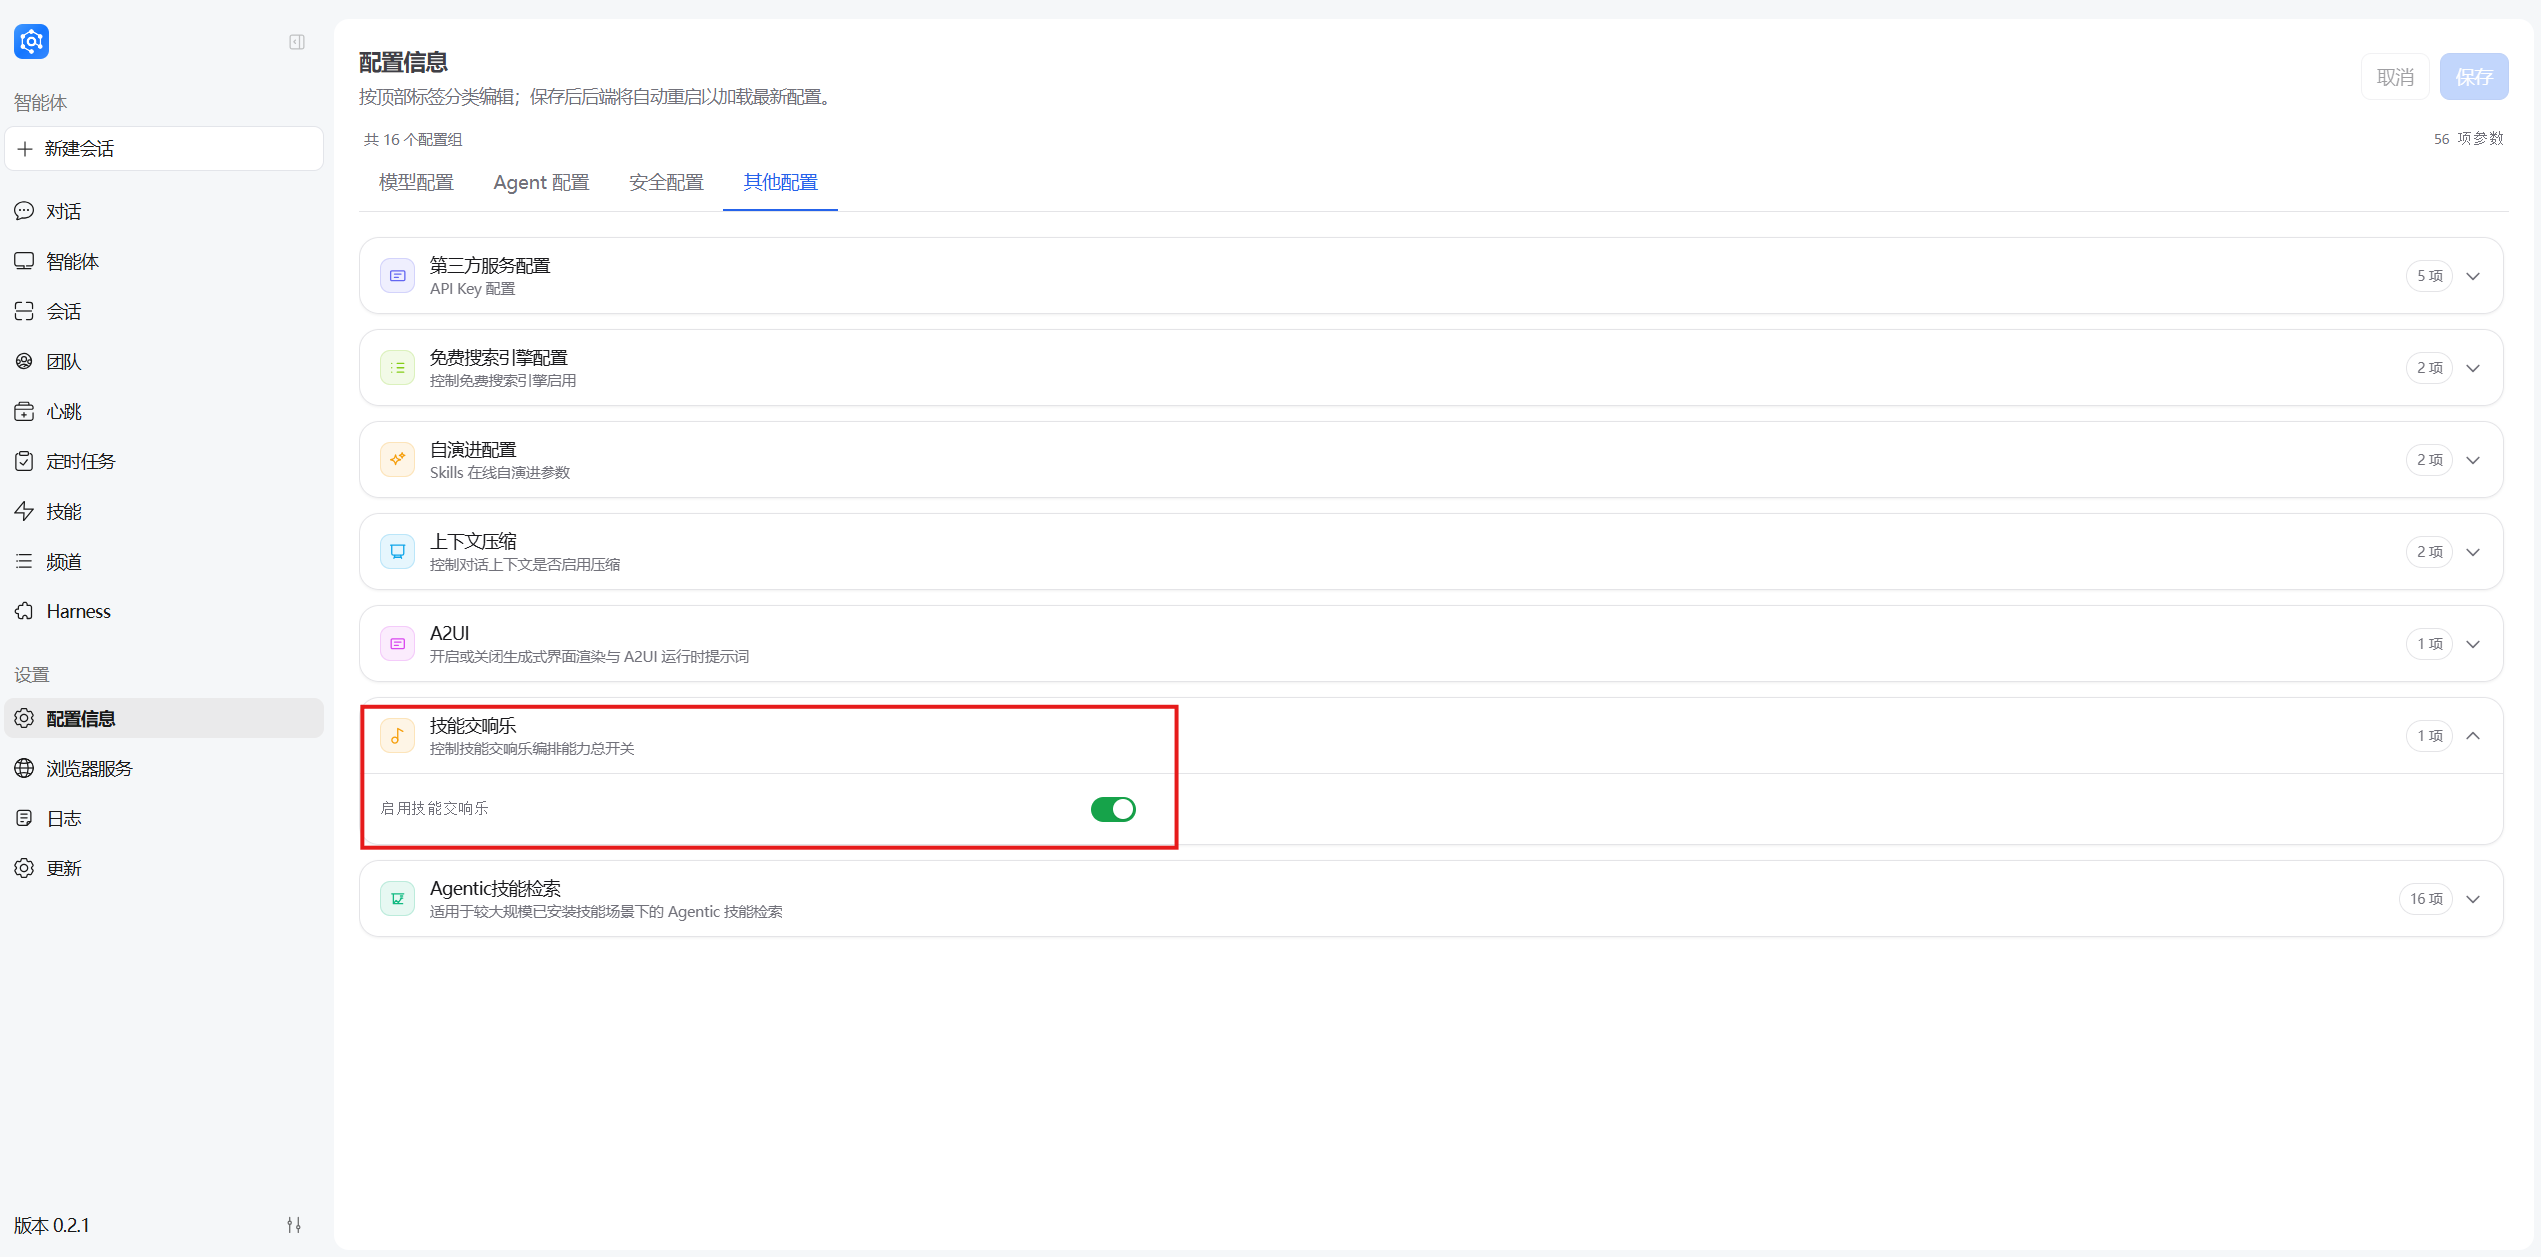
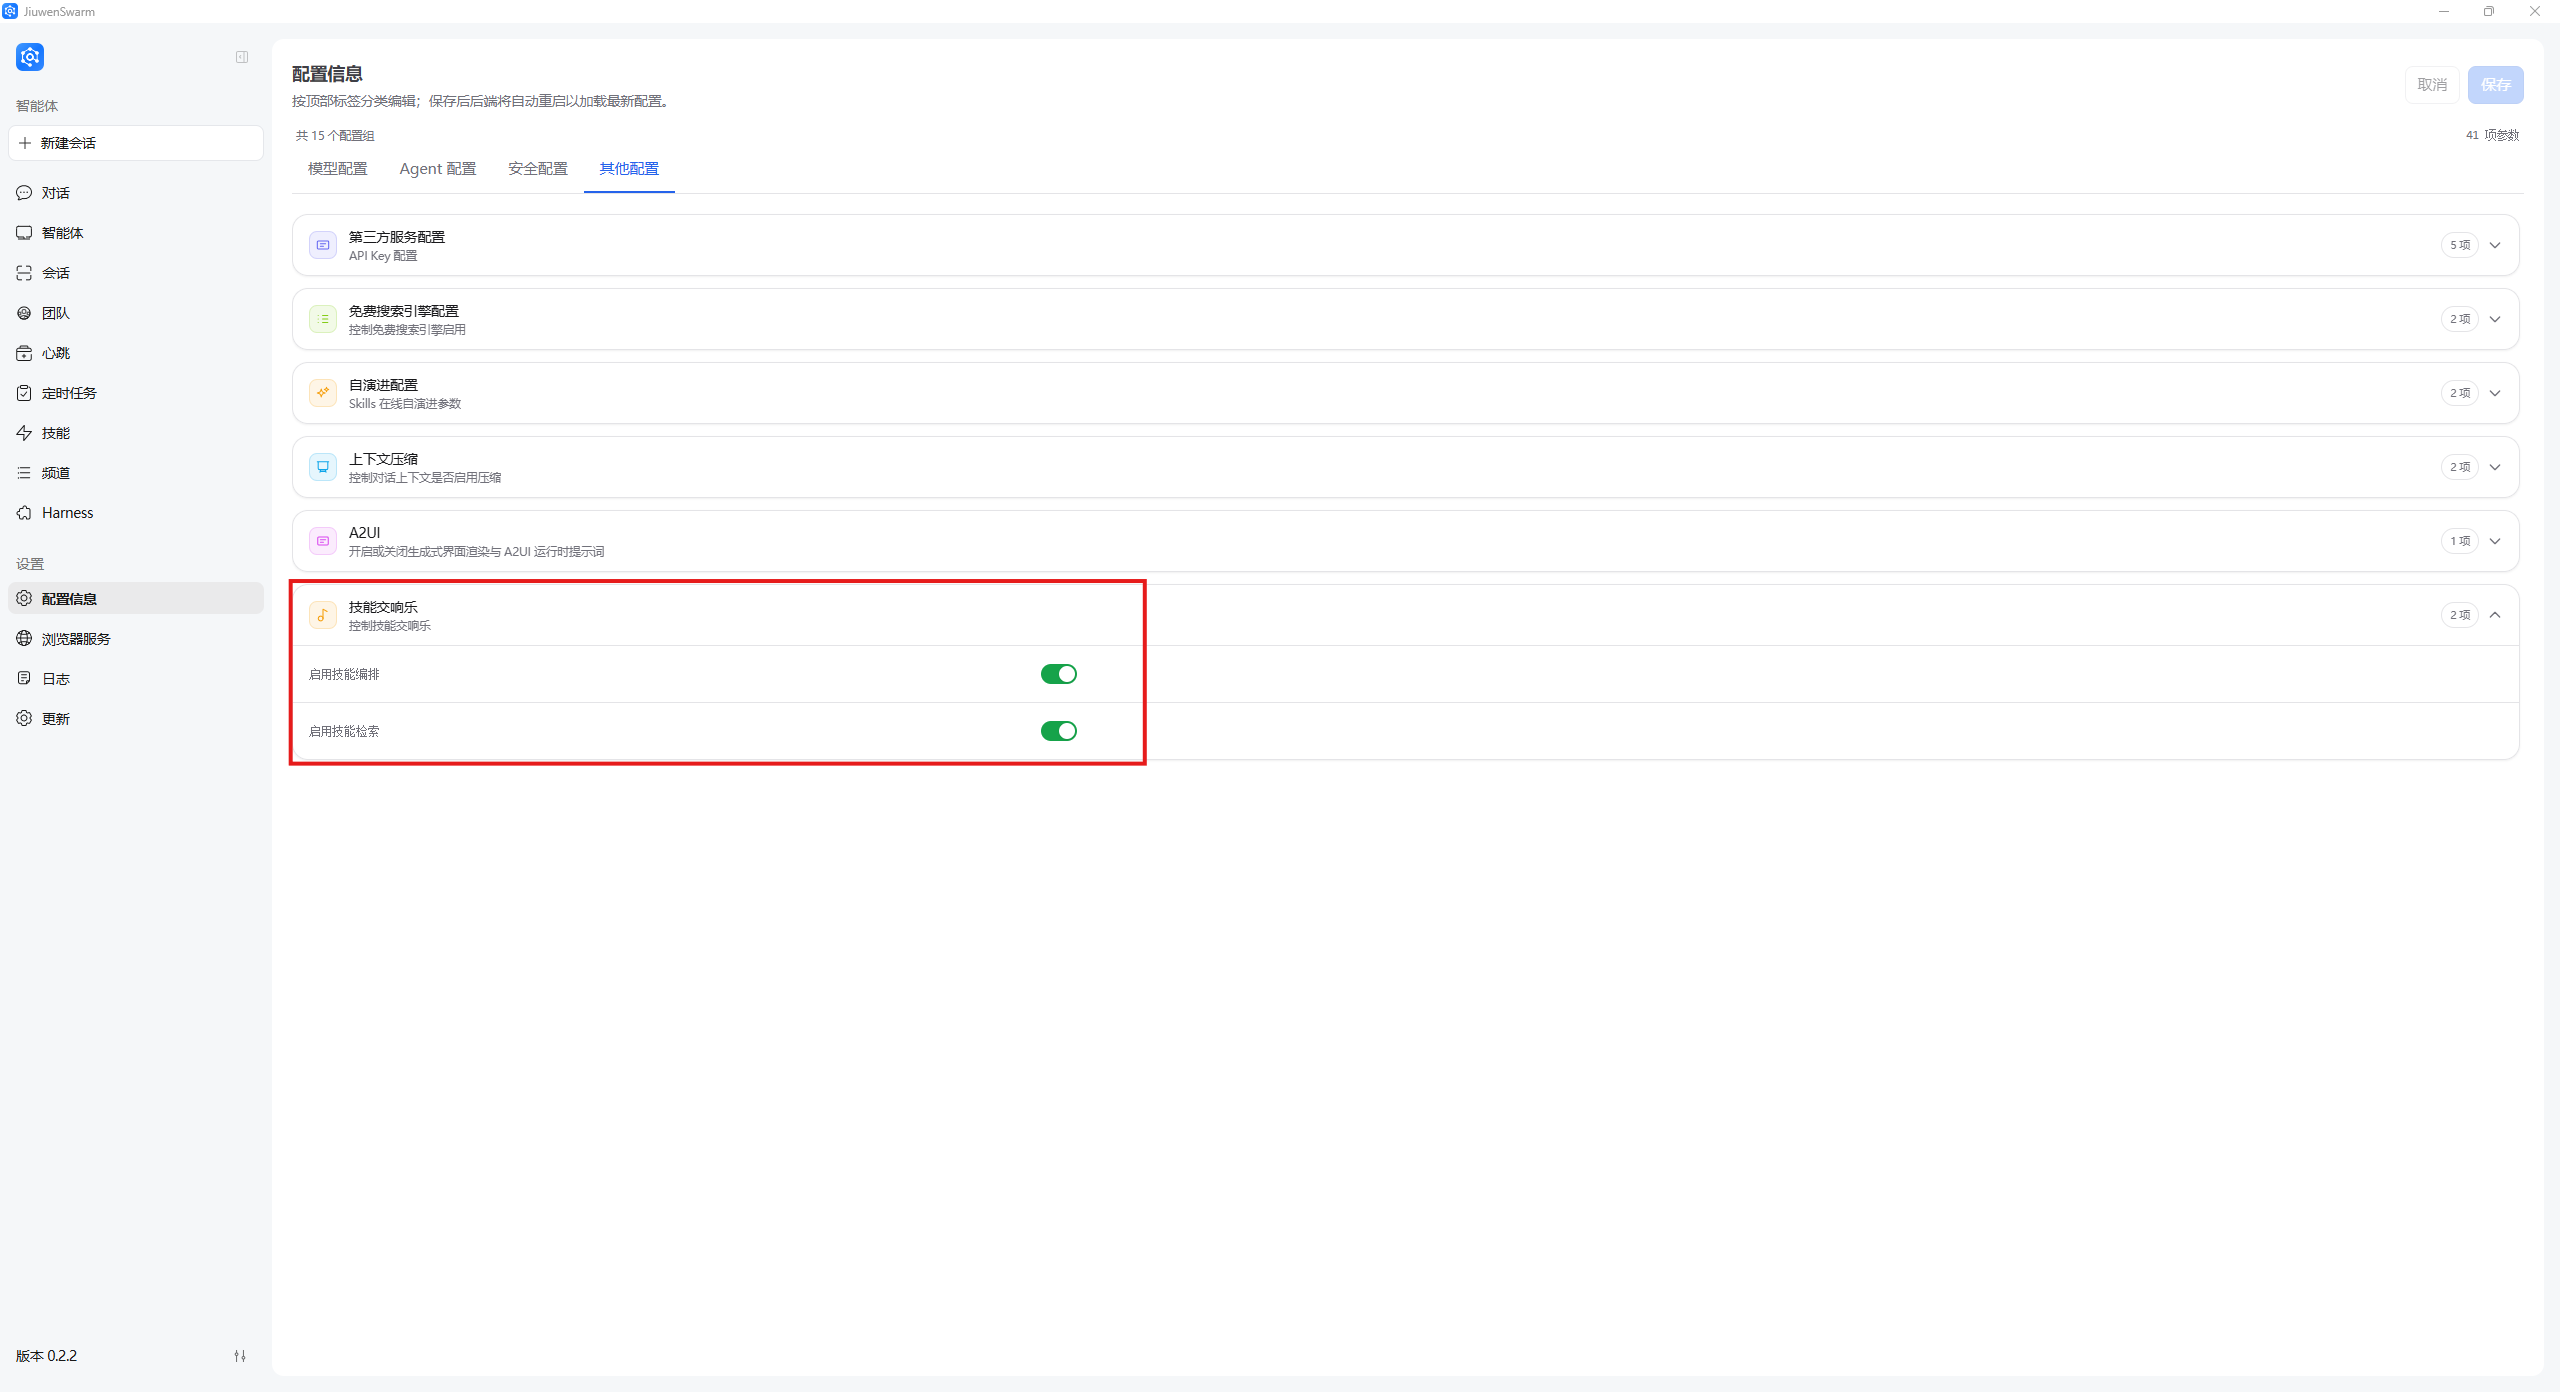
更新技能交响乐配置图片
# message auto-generated for no-merge-commit merge:
!2896 更新技能交响乐配置图片

From: @lin-xiaoyu 

See merge request: openJiuwen/jiuwenswarm!2896

diff --git a/docs/zh/Symphony-技能编排与分发.md b/docs/zh/Symphony-技能编排与分发.md
@@ -1,4 +1,4 @@
-# Symphony：技能检索、编排与分发
+# Symphony：技能编排与智能分发
 ---
 
 ## 概念科普
